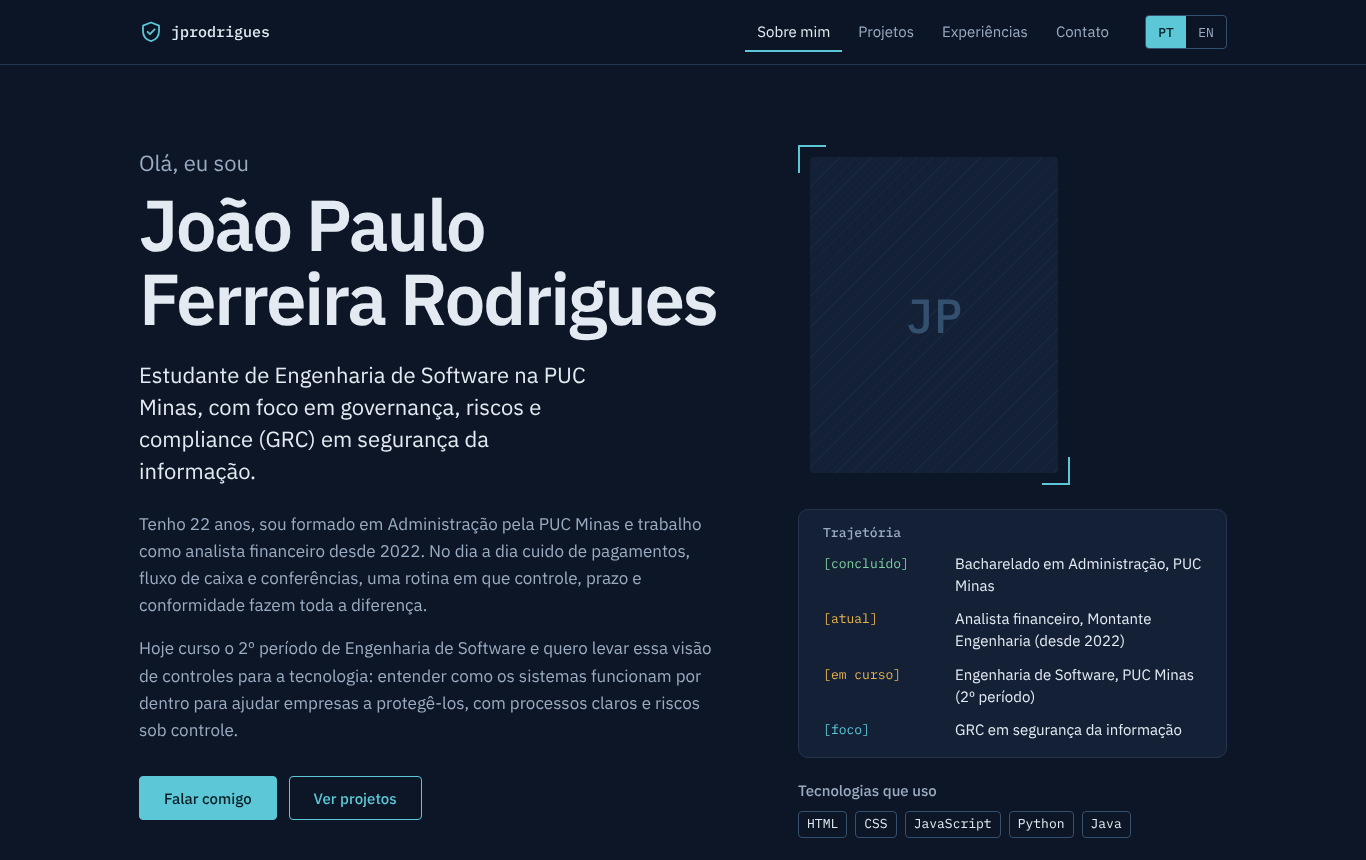
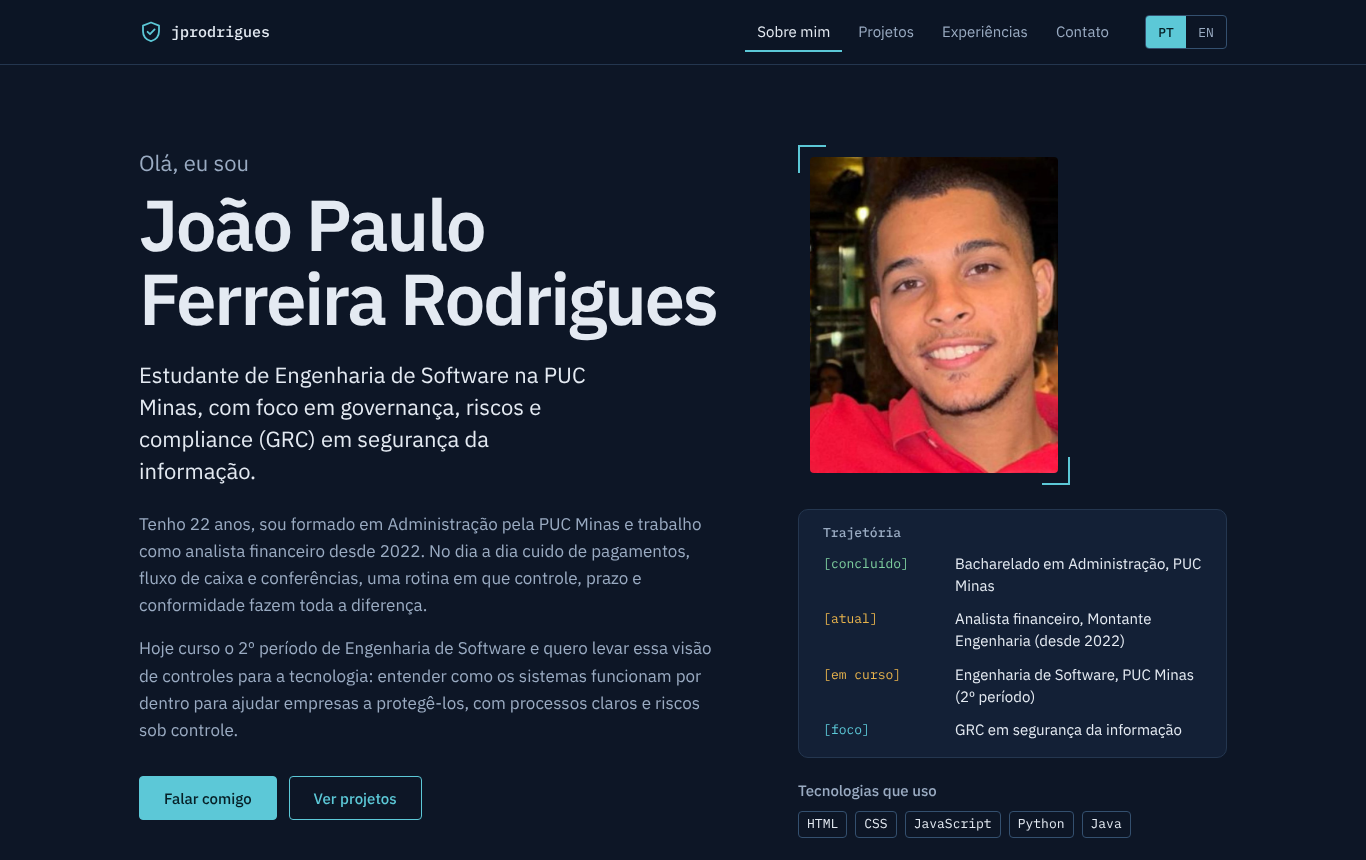
feat: foto de perfil e link do repositório do ChargerMaps

Changed region(s): [[0.5842, 0.1814, 0.7994, 0.5744]]

diff --git a/frontend/src/data/projects.js b/frontend/src/data/projects.js
@@ -35,19 +35,19 @@ export const projects = [
     image: "/projetos/defend-the-castle.gif",
   },
   {
-    id: "chargermap",
-    name: "ChargerMap",
+    id: "chargermaps",
+    name: "ChargerMaps",
     period: "2026/1",
     context: {
-      pt: "Trabalho Interdisciplinar I",
-      en: "Interdisciplinary Project I",
+      pt: "Trabalho Interdisciplinar I, equipe de 6 integrantes",
+      en: "Interdisciplinary Project I, team of 6",
     },
     description: {
-      pt: "Buscador de pontos de recarga para carros elétricos. Fiquei com o módulo de favoritos, corrigi bugs de tipos de dados e cuidei do fluxo de branches no Git, além da documentação do projeto.",
-      en: "A finder for electric vehicle charging stations. I owned the favorites module, fixed data type bugs and handled the Git branch workflow, plus the project documentation.",
+      pt: "Aplicação para motoristas de carros elétricos encontrarem pontos de recarga em um mapa interativo, planejarem viagens, simularem o tempo de recarga e guardarem favoritos e histórico. Fiquei com o módulo de favoritos (salvar, buscar, filtrar e ver detalhes dos pontos por usuário), corrigi bugs de tipos de dados e cuidei do fluxo de branches no Git.",
+      en: "An app for electric vehicle drivers to find charging stations on an interactive map, plan trips, simulate charging time and keep favorites and history. I built the favorites module (save, search, filter and view station details per user), fixed data type bugs and handled the Git branch workflow.",
     },
-    tech: ["HTML", "CSS", "JavaScript", "JSON Server"],
-    repo: null, // TODO: link do repositório
+    tech: ["HTML", "CSS", "JavaScript", "JSON Server", "Leaflet"],
+    repo: "https://github.com/ICEI-PUC-Minas-PMGES-TI/pmg-es-2026-1-ti1-0427200-ideal-2",
     image: null, // TODO: print ou GIF
   },
 ];

diff --git a/frontend/src/data/profile.js b/frontend/src/data/profile.js
@@ -3,8 +3,8 @@
 export const profile = {
   name: "João Paulo Ferreira Rodrigues",
   shortName: "João Paulo",
-  // Foto: coloque o arquivo em public/images/foto.jpg e troque null pelo caminho.
-  photo: null, // TODO: "/images/foto.jpg"
+  // Foto de perfil (arquivo em public/images/)
+  photo: "/images/foto.jpg",
   stack: ["HTML", "CSS", "JavaScript", "Python", "Java"],
   links: {
     email: "jpaulo.rodrigues04@gmail.com",
